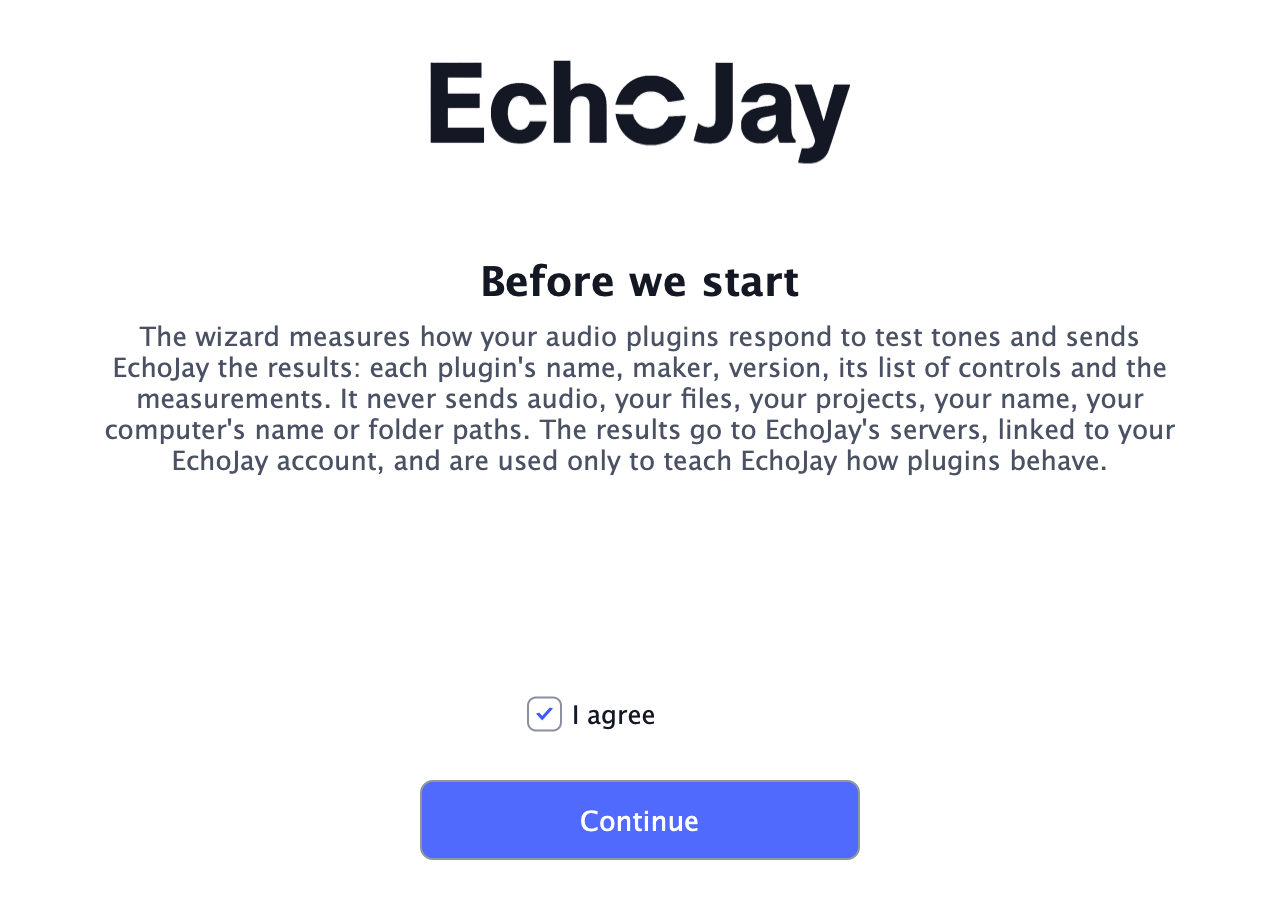
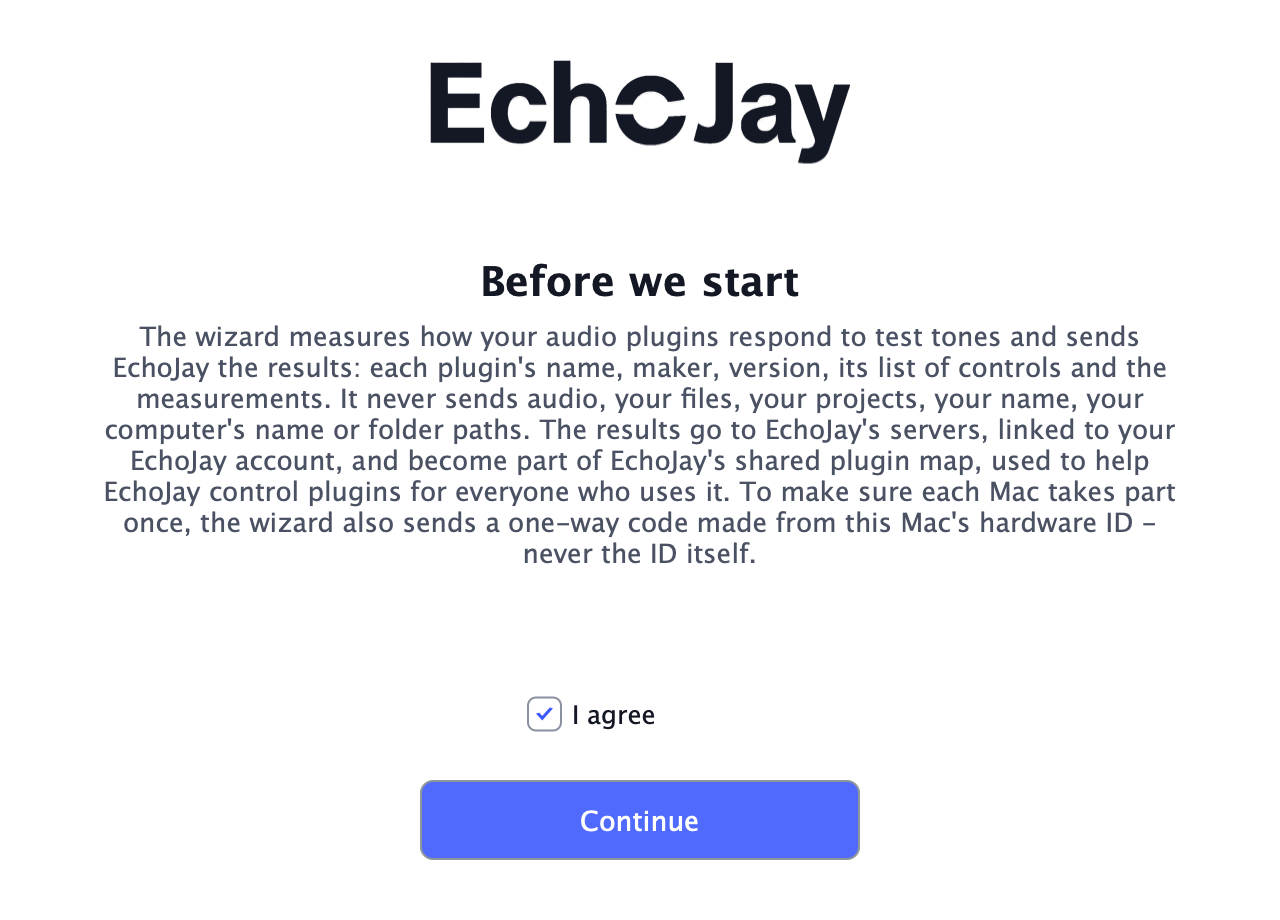
Wizard beta: the DMG rebuilt with the consent edits and both consent screens re-shot; PB-GUARD-2's re-declared guard widened
The rebuilt signed DMG (52f877d4, sha256 fa3fad647a129509...) replaces the one in ~/Desktop/EchoJay-Wizard-Beta-2026-10-13; screens/03
(beta) and 10 (release) show the new consent texts - the release fills the box's nine lines exactly.
The gate failed once on this commit with the Mac at a load average of 33 (other apps) and passed three reruns; it printed no FAIL line, so
the failing check is not known. PB-GUARD-2 is the suite's tightest timing (a child exiting at ~4 s under a re-declared 6 s guard): it now
re-declares 30 s, so load cannot fail it; the read-once mutant is still red (killed at 3 s).

Changed region(s): [[0.0625, 0.487, 0.9375, 0.6087]]

diff --git a/tools/ejmap/tests/RoundTripTest.cpp b/tools/ejmap/tests/RoundTripTest.cpp
@@ -9236,10 +9236,10 @@ void testMultibandStageThresholds()
                    && ! resume.contains ("--redo") && resume.contains ("frequency"),
                    "runall RA-GAPS: the drafts' step (gain-cal, timing) then the passes (combined, material, frequency), every night after samplerate; a resume drops the redo");
         }
-        // PB-GUARD-2 the parent follows a RE-declaration: base 1 s, the child declares 3 s and then 6 s, exits at ~4 s - read once, it dies at 3 s
+        // PB-GUARD-2 the parent follows a RE-declaration: base 1 s, the child declares 3 s and then 30 s (13 Oct: wide, so a loaded Mac cannot fail it), exits at ~4 s - read once, it dies at 3 s
         {
-            const auto r = ejmap::cert::runChild ({ "/bin/sh", "-c", "printf 'GUARD\\t3\\n'; sleep 0.5; printf 'GUARD\\t6\\n'; sleep 3.5; echo finished" }, 1000);
-            check (r.cleanExit() && r.out.contains ("finished"), "phaseb PB-GUARD-2: a child that re-declares its guard mid-run (3 s, then 6 s) runs to its end under a 1 s base (" + r.describe() + ")");
+            const auto r = ejmap::cert::runChild ({ "/bin/sh", "-c", "printf 'GUARD\\t3\\n'; sleep 0.5; printf 'GUARD\\t30\\n'; sleep 3.5; echo finished" }, 1000);
+            check (r.cleanExit() && r.out.contains ("finished"), "phaseb PB-GUARD-2: a child that re-declares its guard mid-run (3 s, then 30 s) runs to its end under a 1 s base (" + r.describe() + ")");
         }
         const auto* ga = categoryNamed ("gainall");
         check (rowIsUnfinished (mk ({ { "outcome", "timed_out" } })) && rowIsUnfinished (mk ({ { "outcome", "failed" } })) && ! rowIsUnfinished (mk ({ { "outcome", "needs_licence" } })) && ! rowIsUnfinished (mk ({ { "outcome", "unhostable" } }))

diff --git a/tools/ejmap/cert-traces/2026-10-13-wizard-beta/README.md b/tools/ejmap/cert-traces/2026-10-13-wizard-beta/README.md
@@ -29,4 +29,4 @@ All runs used the SIGNED apps (`assemble.sh --sign`; the app, its engine and its
 - the beta address is admin@signaturestudiosonline.com;
 - the disk refusal has **Quit**.
 
-`screens/07_beta_results_saved_final.png` and `08_beta_disk_refused_quit.png` come from the rebuilt signed beta. The send-ready folder is `~/Desktop/EchoJay-Wizard-Beta-2026-10-13/`: the .dmg, sha256 starting f74c6647d5b62887, plus the tester README.
+`screens/07_beta_results_saved_final.png` and `08_beta_disk_refused_quit.png` come from the rebuilt signed beta. The send-ready folder is `~/Desktop/EchoJay-Wizard-Beta-2026-10-13/`: the .dmg, sha256 starting fa3fad647a129509 (rebuilt at 52f877d4 with Kathy's consent edits; `screens/03` and `10` show both consent texts), plus the tester README.
